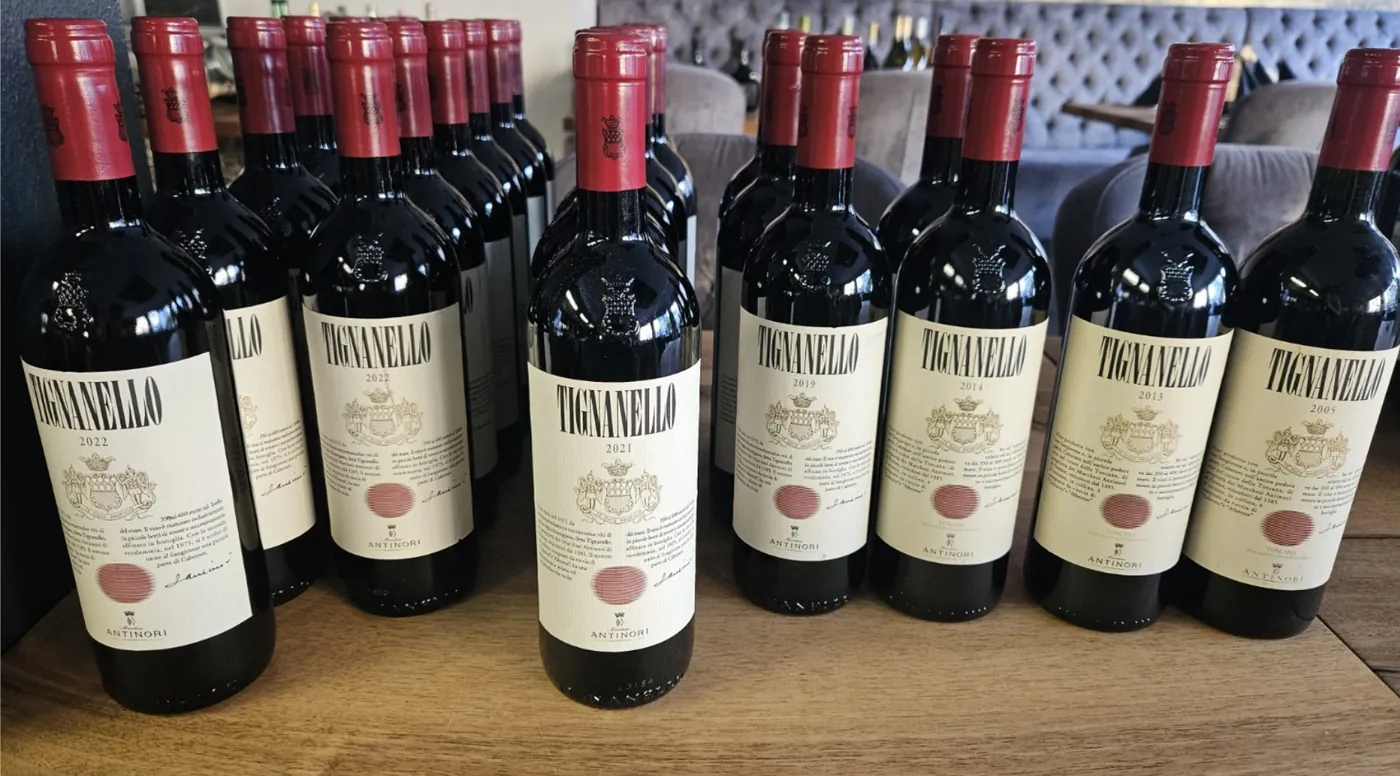
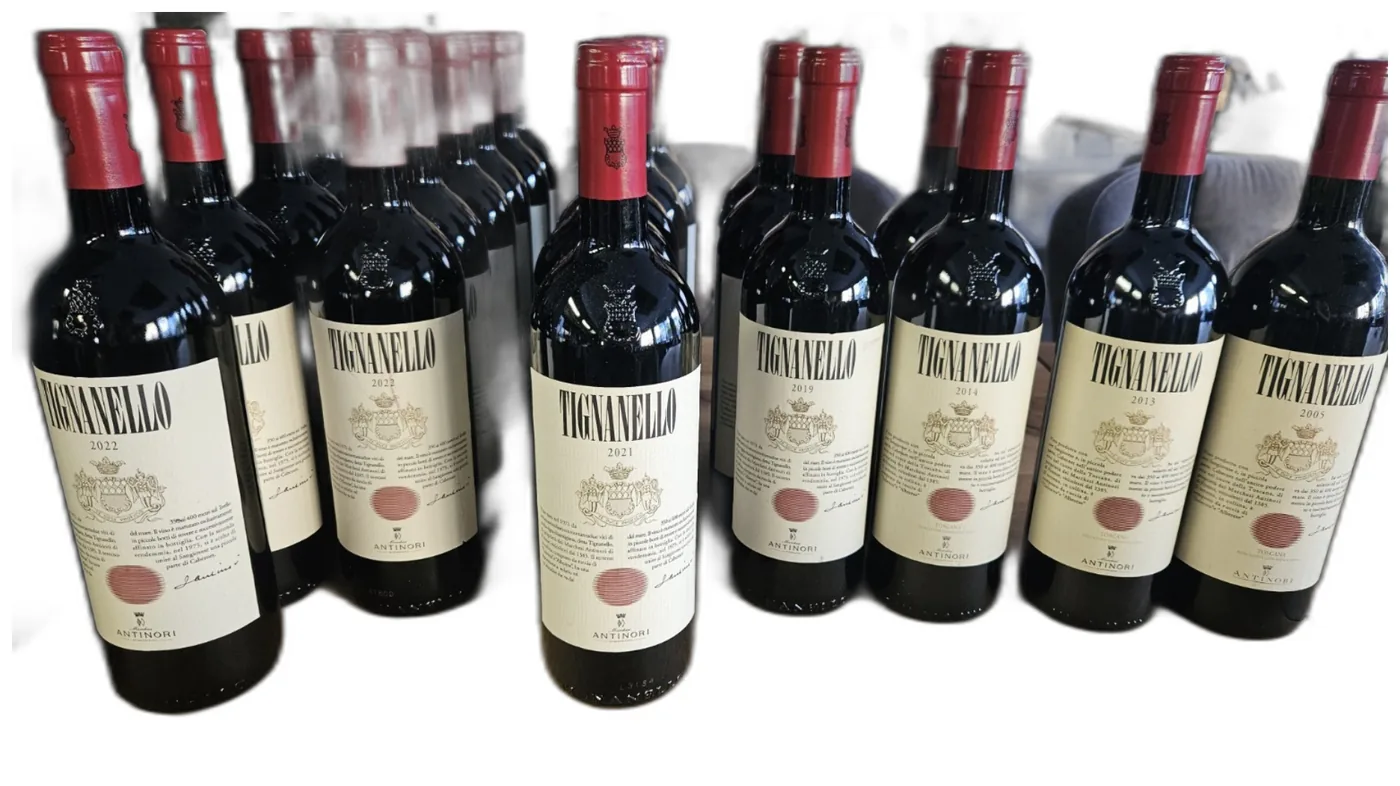
Remove room backgrounds from inventory bottle example photos.
The sofa and furniture behind the bottles distracted from the products; the examples now sit on a clean white ground.

diff --git a/inventar-schadenlisten.html b/inventar-schadenlisten.html
@@ -171,7 +171,7 @@
                 <div class="inv-example">
                     <article class="inv-example-step">
                         <figure>
-                            <img src="images/inventar-ausgang-flaschen.webp" width="1325" height="896" alt="Anonymisierter Ausschnitt erfasster Weinflaschen als Ausgangsmaterial für eine Inventarliste" loading="lazy" decoding="async">
+                            <img src="images/inventar-ausgang-flaschen.webp" width="1357" height="928" alt="Anonymisierter Ausschnitt erfasster Weinflaschen als Ausgangsmaterial für eine Inventarliste" loading="lazy" decoding="async">
                             <figcaption>Ausschnitt des Ausgangsmaterials, ohne erkennbaren Raumkontext</figcaption>
                         </figure>
                         <div class="inv-example-copy">
@@ -274,7 +274,7 @@
                     <p>Im Weinbeispiel unterscheiden sich Jahrgänge derselben Lage deutlich. Bei Maschinen, IT oder Gastronomieinventar gilt dasselbe Prinzip: scheinbar gleiche Gegenstände sind oft nicht gleichwertig.</p>
                 </div>
                 <figure class="inv-photo">
-                    <img src="images/inventar-jahrgaenge-flaschen.webp" width="1400" height="776" alt="Anonymisierter Ausschnitt gleicher Weinflaschen mit unterschiedlichen Jahrgängen" loading="lazy" decoding="async">
+                    <img src="images/inventar-jahrgaenge-flaschen.webp" width="1400" height="786" alt="Anonymisierter Ausschnitt gleicher Weinflaschen mit unterschiedlichen Jahrgängen" loading="lazy" decoding="async">
                     <figcaption>Gleiches Produkt, unterschiedliche Jahrgänge: getrennt dokumentierbar</figcaption>
                 </figure>
             </div>
